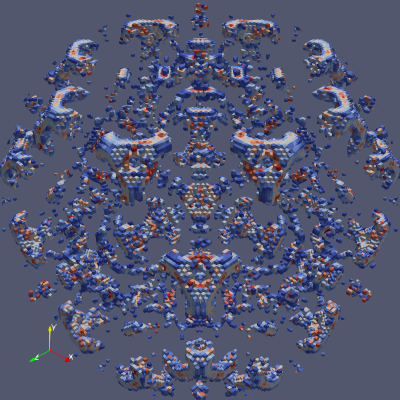
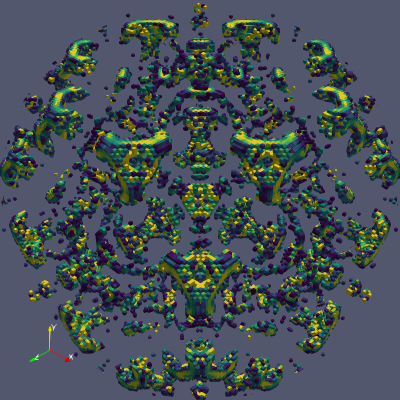
cron update

diff --git a/docs/paraview.md b/docs/paraview.md
@@ -429,7 +429,10 @@ threshold1.ThresholdRange = [0.0001, 0.00015]
 threshold1Display = Show(threshold1, renderView1)
 
 # Rescale transfer function
-scalars_LUT.RescaleTransferFunction(0.0001, 0.00015)
+scalars_LUT.RescaleTransferFunction(0.0001, 0.00013)
+
+# Apply a preset using its name. Note this may not work as expected when presets have duplicate names.
+scalars_LUT.ApplyPreset('Viridis (matplotlib)', True)
 
 renderView1.CameraPosition = [12,12,12]
 
@@ -457,30 +460,32 @@ cameraAnimationCue1 = GetCameraTrack(view=renderView1)
 
 # create a key frame
 keyFrame0 = CameraKeyFrame()
-keyFrame0.Position = [18.070469586479813, 11.122508098376553, 24.22512965224545]
-keyFrame0.ViewUp = [-0.1107991150353508, 0.9319516717246805, -0.3452385228750644]
-cameraAnimationCue1 = GetCameraTrack(view=renderView1)
-
-keyFrame0.ParallelScale = 17.897536020732225
-keyFrame0.PositionPathPoints = [18.0705, 11.1225, 24.2251, 31.900984004759163, 4.236680533061291, 1.1985675946350902, 22.08006589656667, -5.790182976131775, -22.716481387808596, -4.111426156824759, -11.524582838410515, -29.790404937658643, -27.256188091070268, -8.71526885674823, -14.778884624511525, -30.195637300108398, 0.5550481525734821, 11.189150592783168, -10.750586017268908, 9.413733221835795, 28.862058435123746]
-keyFrame0.FocalPathPoints = [-0.00179458, 0.0, 0.0]
+keyFrame0.Position = [13.62154428344417, 13.623338860089067, 13.623338860089067]
+keyFrame0.ParallelScale = 8.941515994338047
+keyFrame0.PositionPathPoints = [12.0, 12.0, 12.0, 16.8775962300817, 12.0, -1.7739068448856008, 9.242830918992556, 12.0, -14.23271149861878, -5.2441922933858525, 12.0, -16.139964287134976, -15.843385208620813, 12.0, -6.081705774801609, -14.696938456699069, 12.0, 8.485281374238571, -2.654780904989691, 12.0, 16.761626960009046]
+keyFrame0.FocalPathPoints = [0.0, 0.0, 0.0]
 keyFrame0.ClosedPositionPath = 1
 
 # create a key frame
 keyFrame1 = CameraKeyFrame()
 keyFrame1.KeyTime = 1.0
-keyFrame1.Position = [18.070469586479813, 11.122508098376553, 24.22512965224545]
-keyFrame1.ViewUp = [-0.1107991150353508, 0.9319516717246805, -0.3452385228750644]
-keyFrame1.ParallelScale = 17.897536020732225
+keyFrame1.Position = [13.62154428344417, 13.623338860089067, 13.623338860089067]
+keyFrame1.ParallelScale = 8.941515994338047
 
 # initialize the animation track
 cameraAnimationCue1.Mode = 'Path-based'
 cameraAnimationCue1.KeyFrames = [keyFrame0, keyFrame1]
 
 # save animation
-SaveAnimation('/tmp/CZO.png', renderView1, ImageResolution=[200, 200], FrameWindow=[0, 100])
-
+SaveAnimation('/tmp/CZO.png', renderView1, ImageResolution=[200, 200], FrameWindow=[0, 99])
 ```
+
+A series of images are created that you can them convert to an animated gif, _e.g._ using `ffmpeg`:
+```shell
+$ ffmpeg -i /tmp/CZO.%04d.png CZO_surface.gif
+```
+
+![CZO surface](CZO_surface.gif)
 
 ## Volume
 
